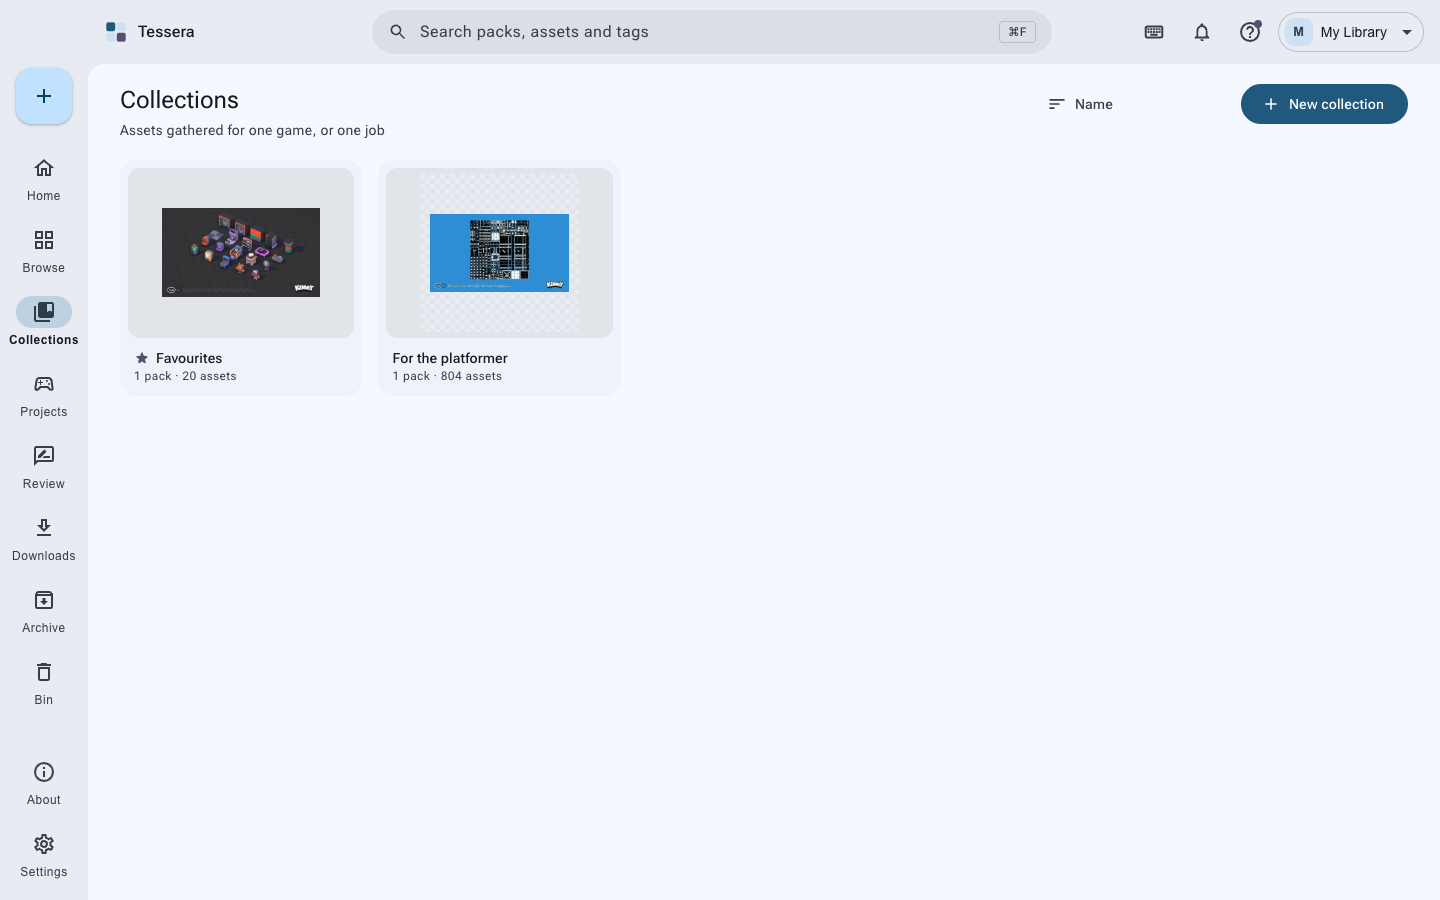
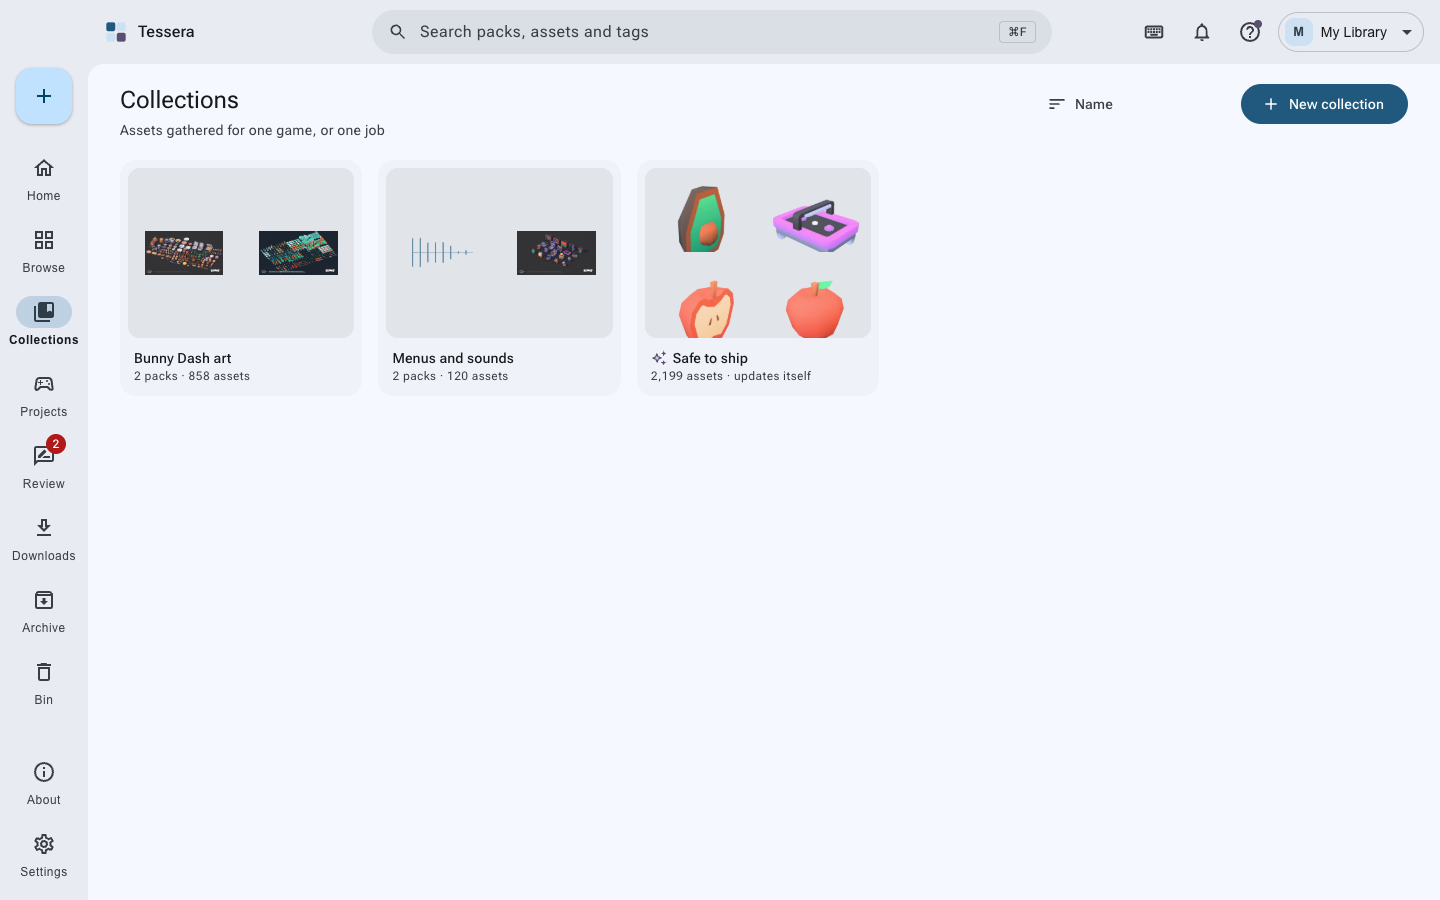
Downloads: read links from a page however it quotes them, which is why no Kenney page ever worked; screenshots of libraries, review, collections, downloads, backups, sync and agents

diff --git a/test/sites.test.ts b/test/sites.test.ts
@@ -43,7 +43,8 @@ describe('the file behind a page', () => {
   });
 
   it('reads the zip off a Kenney page, and says so when the page has changed', async () => {
-    const page = '<a href="/media/pages/assets/city-kit/abc123/kenney_city-kit.zip">Download</a>';
+    // Kenney writes its attributes in single quotes, as the real pages do.
+    const page = "<a id='donate-text' href='/media/pages/assets/city-kit/abc123/kenney_city-kit.zip' data-lity-close>Continue</a>";
     const { fetch } = web({ 'https://kenney.nl/assets/city-kit': page });
     expect((await resolveLink('https://kenney.nl/assets/city-kit', fetch))?.url).toBe('https://kenney.nl/media/pages/assets/city-kit/abc123/kenney_city-kit.zip');
 

diff --git a/src/main/downloads/sites.ts b/src/main/downloads/sites.ts
@@ -34,7 +34,10 @@ const json = async (fetch: Fetch, url: string): Promise<unknown> => {
 };
 
 /** Links in a page's HTML, in the order they appear. */
-const hrefs = (html: string): string[] => [...html.matchAll(/href\s*=\s*"([^"]+)"/gi)].map((m) => m[1]!);
+// Pages in the wild quote their attributes however they like: Kenney's are in single quotes, so
+// reading only double-quoted ones found no download at all.
+const hrefs = (html: string): string[] =>
+  [...html.matchAll(/href\s*=\s*(?:"([^"]*)"|'([^']*)'|([^\s"'=<>`]+))/gi)].map((m) => m[1] ?? m[2] ?? m[3]!).filter(Boolean);
 
 const host = (u: URL) => u.hostname.replace(/^www\./, '');
 

diff --git a/README.md b/README.md
@@ -118,13 +118,25 @@ gh attestation verify Tessera-*.dmg -R ahmmedrejowan/tessera
 |-------|----------|
 | ![Games](docs/images/08-games.png) | ![A game's page](docs/images/13-project.png) |
 
-| Collections | Settings |
-|-------------|----------|
-| ![Collections](docs/images/07-collections.png) | ![Settings](docs/images/09-settings.png) |
+| Collections | Review |
+|-------------|--------|
+| ![Collections](docs/images/07-collections.png) | ![Review](docs/images/15-review.png) |
 
-| AI agents | Connecting an agent |
-|-----------|----------------------|
-| ![AI agents](docs/images/10-agents-settings.png) | ![Connecting](docs/images/11-agents.png) |
+| Downloads | One library, or several |
+|-----------|-------------------------|
+| ![Downloads](docs/images/16-downloads.png) | ![The library switcher](docs/images/14-libraries.png) |
+
+| Backups | Sync |
+|---------|------|
+| ![Backups](docs/images/17-backups.png) | ![Sync](docs/images/18-sync.png) |
+
+| Settings | AI agents |
+|----------|-----------|
+| ![Settings](docs/images/09-settings.png) | ![AI agents](docs/images/10-agents-settings.png) |
+
+| Connecting an agent | The first screen |
+|---------------------|------------------|
+| ![Connecting](docs/images/11-agents.png) | ![The first screen](docs/images/01-welcome.png) |
 
 ---
 
